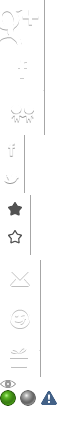
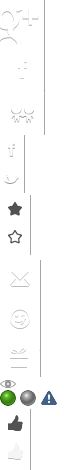
в

diff --git a/SITE/PROFILE/photo-viewer.html b/SITE/PROFILE/photo-viewer.html
@@ -1,0 +1,236 @@
+<!DOCTYPE HTML>
+<html xmlns="http://www.w3.org/1999/html">
+<head>
+    <meta http-equiv="content-type" content="text/html; charset=utf-8" >
+    <title>Another Profile</title>
+    <link rel="stylesheet" href="../style_curr.css">
+    <link rel="stylesheet" href="../css/std.css">
+    <link rel="stylesheet" href="../css/user.css">
+    <link rel="stylesheet" href="../css/button.css">   <!-- НОВЫЕ стили кнопок. Проверить наличие, заменить более новой версией, а так же файлы btns.png и btns-icos.png, Версия указана в первой строке файла-->
+    <link rel="stylesheet" href="profile.css">
+    <!-- Костыли для ИE, можно добавить в уже существующие -->
+    <!--[if lt IE 9]>
+    <link rel="stylesheet" href="../yngtu_ie8.css" type="text/css">
+    <![endif]-->
+
+    <!--  Файлы для замены селектов -->
+
+    <script src="../js/jquery-1.4.4.min.js"></script>
+    <script src="../js/jquery.stylish-select.js"></script>
+    <script type="text/javascript">
+        $(document).ready(function(){
+            $('.sSelect').sSelect();
+        });
+
+        function stsStyle(){
+            $('.select_menu').each(function(){
+                var objElement = $(this).find('.sts > li'),
+                        obj = objElement.closest('.select_menu'),
+                        count =  objElement.length,
+                        w = obj.width() / count;
+                objElement.css({'width': w+'px'});
+                console.log(obj.width())
+
+            });
+        }
+        stsStyle();
+    </script>
+    <!--  ---------------------------------------- -->
+
+</head>
+<body>
+<!-- начало шаблонной шапки -->
+<div class="header">
+    <div class="header_inn">
+        <div class="top_navigation">
+            <ul class="left">
+                <li><a href="#">Messages</a><span class="new_event">2</span></li>
+                <li><a href="#">Signals</a><span class="new_event">45</span></li>
+                <li><a href="#">Soulmates</a><span class="new_event">167</span></li>
+            </ul>
+            <ul class="right">
+                <li class="coints">1450 Coins <a href="#">Add</a></li>
+                <li class="profile"><a href="#">Profile </a></li>
+                <li class="account"><a href="#">Account Settings</a></li>
+            </ul>
+            <div class="std__clear"></div>
+        </div>
+        <div class="bot_navigation">
+            <a href="#"><img src="../img/ya_block_logo.png" class="logo" alt="Yangutu"/></a>
+            <ul class="main_menu">
+                <li><a href="#">Home</a></li>
+                <li><a href="#">Matches</a></li>
+                <li><a href="#">TOP-100</a></li>
+                <li><a href="#">Apps and Games</a></li>
+                <li><a href="#">Blogs</a></li>
+            </ul>
+            <div class="clr2"></div>
+        </div>
+    </div>
+</div>
+<!-- КОНЕЦ шаблонной шапки -->
+<div class="content">
+    <div class="content_inn profile">
+
+        <div class="profile__block-head">
+            <div class="profile__collLeft">
+                <h1 class="b-std__header std__fs-bigH profile__userName">Punkyrobinson, 34<i class="icon icon-online"></i></h1>
+
+            </div><!-- /.profile__collLeft -->
+
+            <div class="profile__collCenter">
+                <div class="slider">
+                    <a class="slider-item current" href="#">Her profile</a>
+                    <a class="slider-item" href="#">Photos (1)</a>
+                    <a class="slider-item" href="#">Our history</a>
+                </div>
+
+            </div><!-- /.profile__collLeft -->
+
+            <div class="profile__collRight">
+                <a class="button lite-grey favorite" href="#"><i class="icon"></i>Add to favorites</a>
+
+            </div><!-- /.profile__collLeft -->
+
+            <div class="std__clear"></div>
+        </div><!-- /.profile__block-head -->
+
+        <div class="profile__block">
+
+            <div class="profile__collWide">
+
+                <div class="profile__photoViewer">
+
+                    <div class="profile__photoViewer_top">
+                        <div class="profile__photoViewer_top_head">
+
+                            <a href="#" class="button lite-grey like"><i class="icon"></i>Like</a>
+
+                            <div class="profile__photoViewer_rate">
+
+                                <div class="profile__photoViewer_rate_stars">
+                                    <a class="profile__photoViewer_star" href="#">1</a>
+                                    <a class="profile__photoViewer_star" href="#">2</a>
+                                    <a class="profile__photoViewer_star" href="#">3</a>
+                                    <a class="profile__photoViewer_star" href="#">4</a>
+                                    <a class="profile__photoViewer_star" href="#">5</a>
+                                </div>
+
+                            </div><!-- /.profile__photoViewer_stars -->
+
+                            <a class="profile__photoViewer_top_report" href="#">Report photo</a>
+
+                        </div><!-- /.profile__photoViewer_top_head -->
+
+                        <div class="profile__slider">
+
+                            <div class="profile__slider_item">
+                                <img src="../img/profile/slide1.jpg" alt="">
+                            </div><!-- /.profile__slider_item -->
+
+                            <a class="profile__slider_nav"><i></i></a>
+                            <a class="profile__slider_nav right"><i></i></a>
+                        </div><!-- /.profile__slider -->
+                    </div><!-- /.profile__photoViewer_top -->
+
+                    <div class="profile__photoViewer_bottom">
+
+                        <div class="profile__photoViewer_carousel">
+
+                            <div class="profile__photoViewer_carousel_list">
+
+                                <div class="profile__photoViewer_carousel_listItem">
+                                    <a class="b-user__photoFrame profile__previews_frame" href="#">
+                                        <img src="../img/usr/76x76.jpg" alt="" class="b-user__photoFrame_photo profile__previews_photo">
+                                    </a>
+                                </div><!-- profile__photoViewer_carousel_listItem -->
+
+                                <div class="profile__photoViewer_carousel_listItem">
+                                    <a class="b-user__photoFrame profile__previews_frame" href="#">
+                                        <img src="../img/usr/76x76.jpg" alt="" class="b-user__photoFrame_photo profile__previews_photo">
+                                    </a>
+                                </div><!-- profile__photoViewer_carousel_listItem -->
+
+                                <div class="profile__photoViewer_carousel_listItem">
+                                    <a class="b-user__photoFrame profile__previews_frame" href="#">
+                                        <img src="../img/usr/76x76.jpg" alt="" class="b-user__photoFrame_photo profile__previews_photo">
+                                    </a>
+                                </div><!-- profile__photoViewer_carousel_listItem -->
+
+                                <div class="profile__photoViewer_carousel_listItem">
+                                    <a class="b-user__photoFrame profile__previews_frame" href="#">
+                                        <img src="../img/usr/76x76.jpg" alt="" class="b-user__photoFrame_photo profile__previews_photo">
+                                    </a>
+                                </div><!-- profile__photoViewer_carousel_listItem -->
+
+                                <div class="profile__photoViewer_carousel_listItem">
+                                    <a class="b-user__photoFrame profile__previews_frame" href="#">
+                                        <img src="../img/usr/76x76.jpg" alt="" class="b-user__photoFrame_photo profile__previews_photo">
+                                    </a>
+                                </div><!-- profile__photoViewer_carousel_listItem -->
+
+                            </div><!-- /.profile__photoViewer_carousel_list -->
+
+                            <a href="#" class="profile__photoViewer_carousel_arrow_left button small lite-grey round"><i class="icon icon-arrow-left"></i></a>
+                            <a href="#" class="profile__photoViewer_carousel_arrow_right button small lite-grey round"><i class="icon icon-arrow-right"></i></a>
+
+                        </div><!-- /. profile__photoViewer_carousel -->
+
+                    </div><!-- /.profile__photoViewer_bottom -->
+
+                </div><!-- /. profile__photoViewer -->
+
+            </div><!-- /.profile__collWide -->
+
+            <div class="profile__collRight ">
+                <ul class="profile__buttons std__layer_grey-lite">
+                    <li><a class="button big message red" href="#"><i class="icon"></i>Send message</a></li>
+                    <li><a class="button big wink" href="#"><i class="icon"></i>Wink</a></li>
+                    <li><a class="button big gift" href="#"><i class="icon"></i>Send gift</a></li>
+                    <li><a class="link" href="#">Hide from search</a></li>
+                    <li><a class="link" href="#">Block from contact</a></li>
+                    <li><a class="link" href="#">Report this user</a></li>
+                </ul>
+
+            </div><!-- /.profile__collRight -->
+            <div class="std__clear"></div>
+        </div><!-- /.profile__container -->
+
+    </div><!-- /.profile /.content_inn -->
+</div><!-- /.content -->
+<!-- НАЧАЛО шаблонного Футера -->
+<div class="footer">
+    <div class="footer_inn">`
+        <ul>
+            <li><a href="/page/about">About us</a></li>
+            <li><a href="/help">FAQ</a></li>
+            <li><a href="http://blog.yangutu.com/">Our blog</a></li>
+            <li><a href="/feedback">Contact us</a></li>
+        </ul>
+        <ul>
+            <li><a href="/page/policy">Privacy</a></li>
+            <li><a href="/page/terms">Terms of use</a></li>
+        </ul>
+        <ul>
+            <li><a href="/page/scams">Scam warning</a></li>
+            <li><a href="/page/safety">Safety Tips</a></li>
+        </ul>
+        <ul>
+            <li><a href="http://datingtips.yangutu.com/">Dating tips</a></li>
+            <li><a href="http://discussionboard.yangutu.com/">Discussion board</a></li>
+            <li><a href="http://relationshipadvice.yangutu.com/">Relationship advice</a></li>
+
+        </ul>
+        <ul>
+            <li><a href="/dating/all">People Directory</a></li>
+        </ul>
+        <div class="right">
+            <font color="black">&copy; 2010-2011 Yangutu Inc. All rights reserved</font><br>
+            <span>Yangutu (swahili) - My one and only.</span>
+        </div>
+        <div class="std__clear"></div>
+    </div>
+</div>
+
+</body>
+</html>

diff --git a/SITE/PATTERNS/buttons/btns.html b/SITE/PATTERNS/buttons/btns.html
@@ -255,6 +255,12 @@
                 <tr>
                     <td><a class="button lite-grey favorite added" href="#"><i class="icon"></i>button favorite added</a></td>
                 </tr>
+                <tr>
+                    <td><a class="button lite-grey like" href="#"><i class="icon"></i>button like</a></td>
+                </tr>
+                <tr>
+                    <td><a class="button disabled like liked" href="#"><i class="icon"></i>button like liked</a></td>
+                </tr>
             </table>
 
 

diff --git a/SITE/PATTERNS/buttons/css/style.less b/SITE/PATTERNS/buttons/css/style.less
@@ -360,6 +360,25 @@
 
   }
 
+  &.like {
+    .iconedButton(@btnBgPosY:-409px);
+    padding-left: 38px;
+    i.icon {
+      width: 31px;
+    }
+
+    &.liked {
+      .iconedButton(@btnBgPosY:-437px);
+      cursor: pointer;
+      padding-left: 38px;
+      i.icon {
+        width: 31px;
+      }
+    }
+
+
+  }
+
   &.google {
     .iconedButton();
      &.large {
